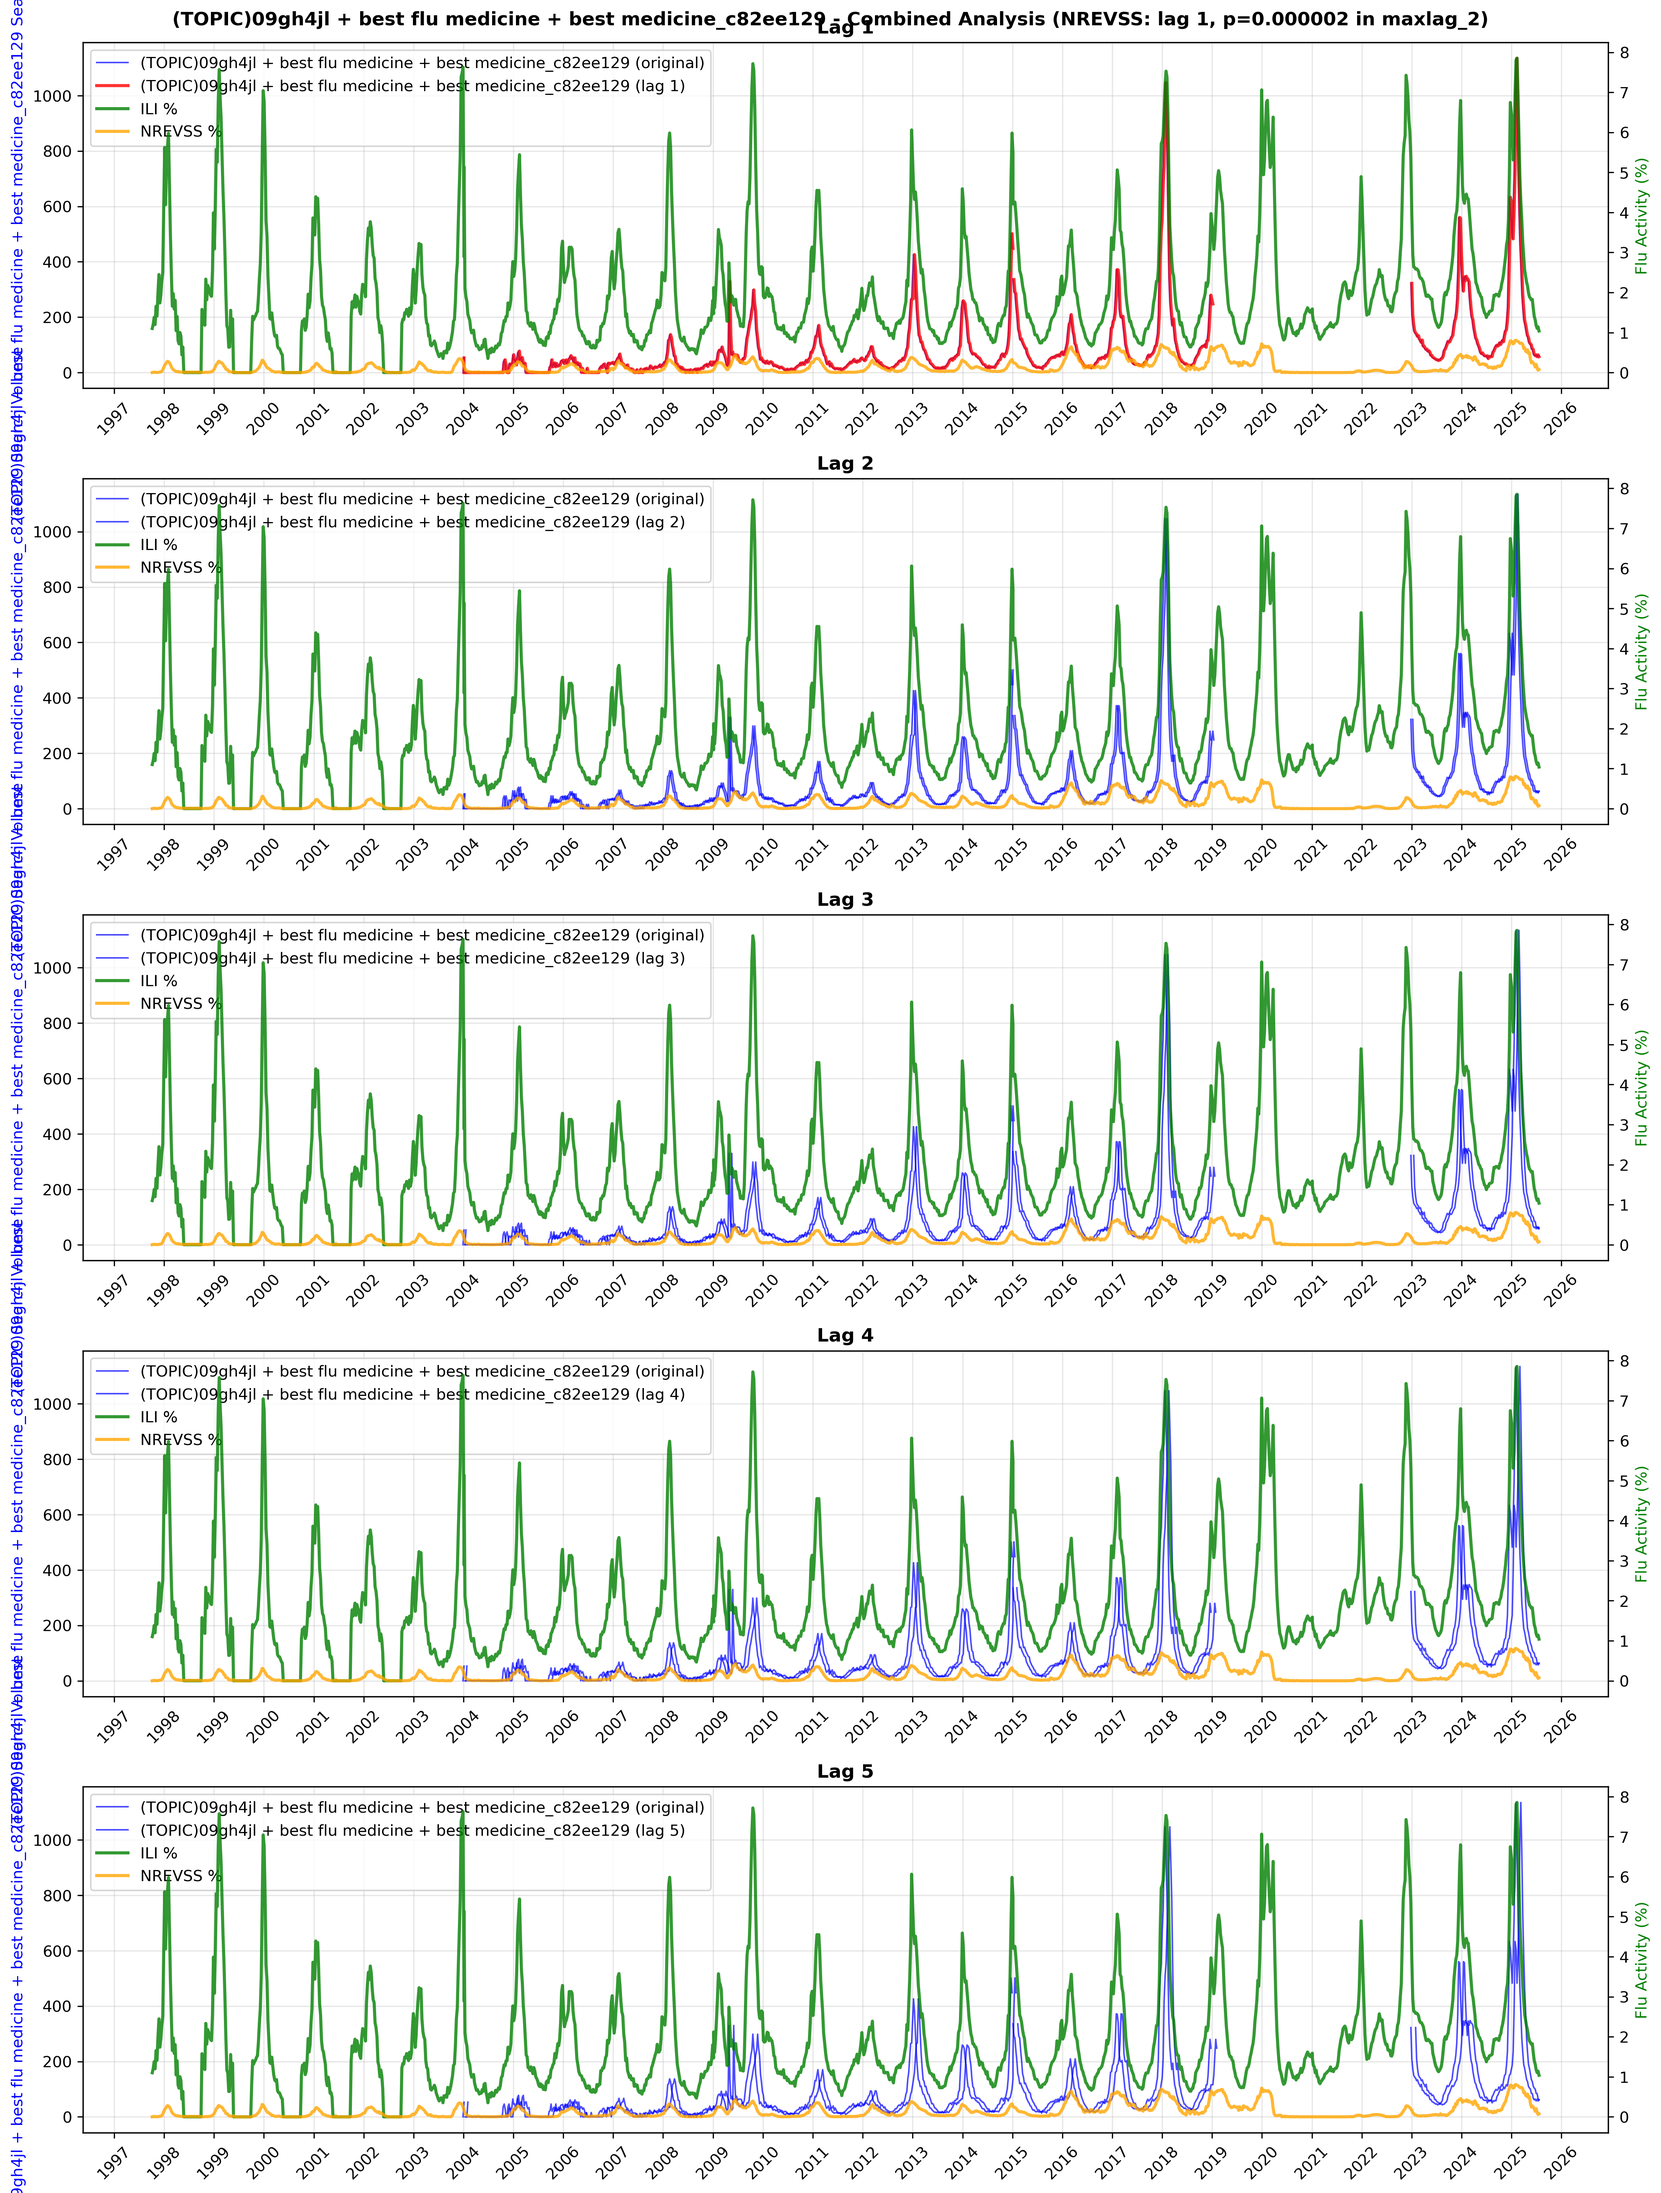
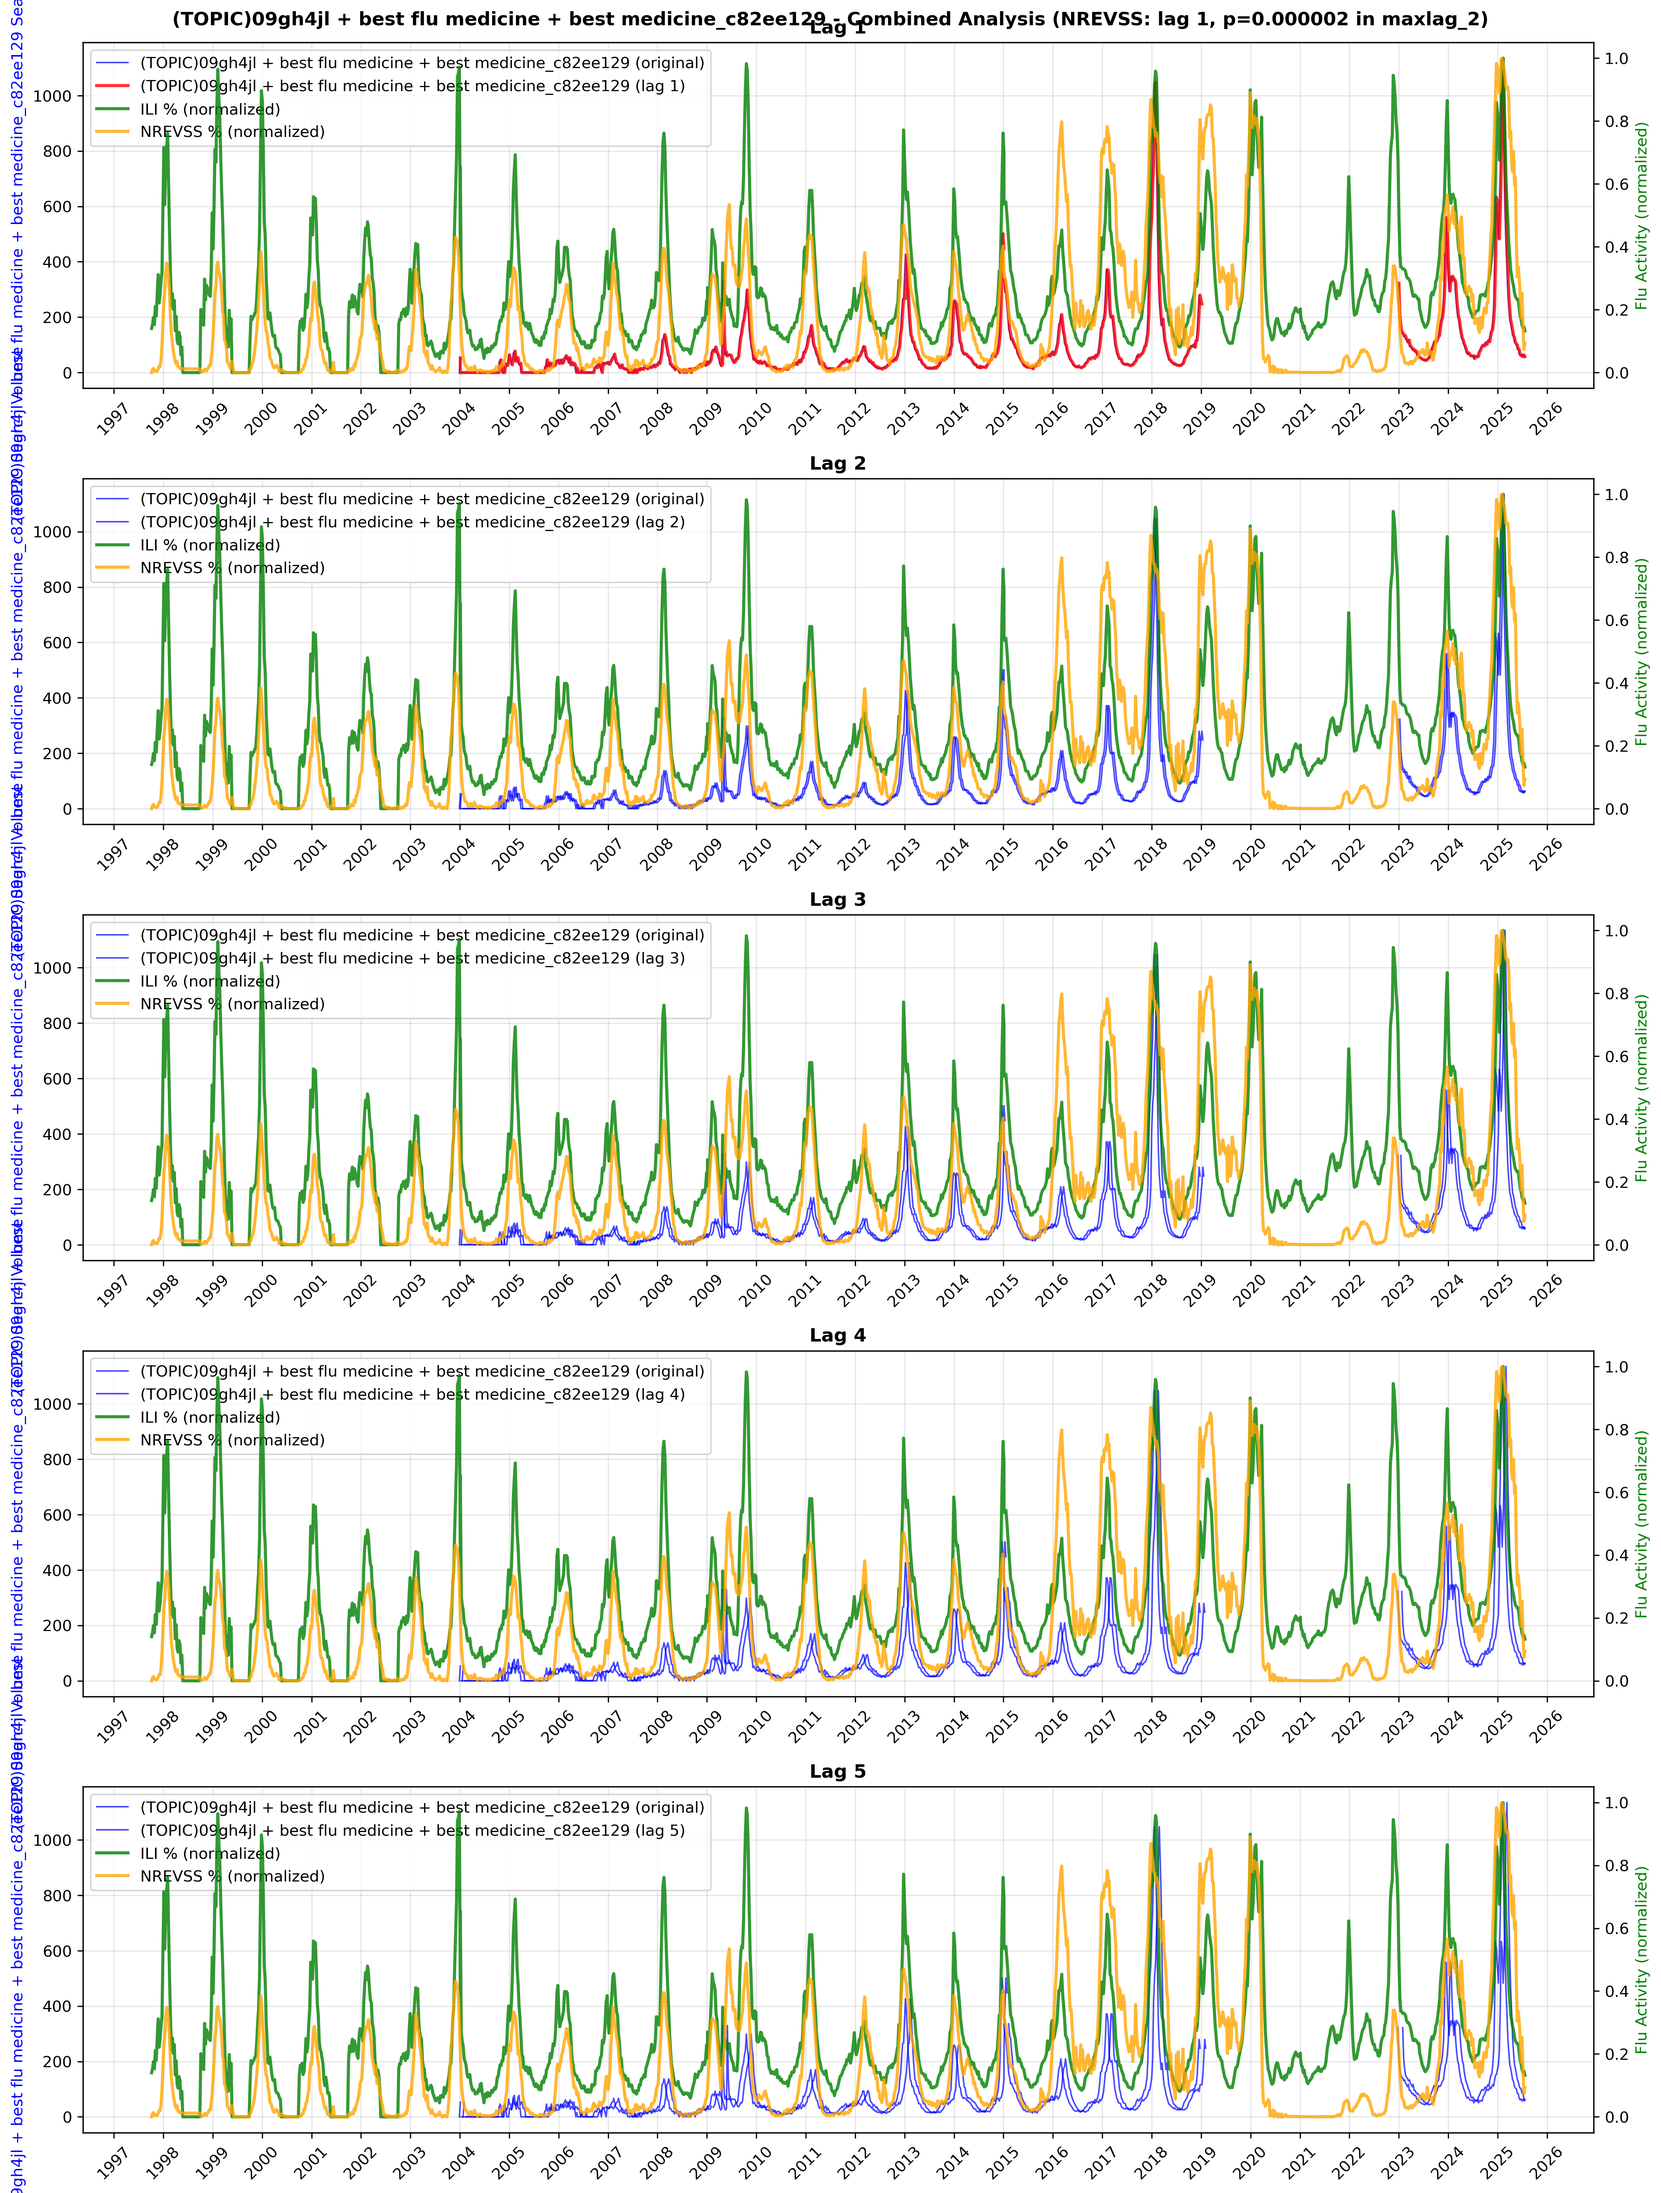
a

diff --git a/Code/new/time_series_analysis_specific.py b/Code/new/time_series_analysis_specific.py
@@ -132,6 +132,11 @@ def create_nrevss_plot(term, df_nrevss, significant_lags, term_significant, term
     else:
         fig.suptitle(f'{term} - NREVSS Analysis', fontsize=14, fontweight='bold', y=0.98)
     
+    # Normalize NREVSS data
+    nrevss_min = df_nrevss['flu_pct_positive'].min()
+    nrevss_max = df_nrevss['flu_pct_positive'].max()
+    df_nrevss['flu_pct_positive_normalized'] = (df_nrevss['flu_pct_positive'] - nrevss_min) / (nrevss_max - nrevss_min)
+    
     for lag in range(1, 6):
         ax = axes[lag-1]
         
@@ -150,14 +155,14 @@ def create_nrevss_plot(term, df_nrevss, significant_lags, term_significant, term
         else:
             ax.plot(x, df_nrevss[f'{term}_lag{lag}'], label=f'{term} (lag {lag})', color='blue', alpha=0.7, linewidth=1)
         
-        # Plot NREVSS data - right y-axis
+        # Plot normalized NREVSS data - right y-axis
         ax2 = ax.twinx()
-        ax2.plot(x, df_nrevss['flu_pct_positive'], label='NREVSS % Positive', color='orange', alpha=0.8, linewidth=2)
+        ax2.plot(x, df_nrevss['flu_pct_positive_normalized'], label='NREVSS % Positive (normalized)', color='orange', alpha=0.8, linewidth=2)
         
         # Customize plot
         ax.set_title(f'Lag {lag}', fontweight='bold')
         ax.set_ylabel(f'{term} Search Volume', color='blue')
-        ax2.set_ylabel('NREVSS Activity (%)', color='orange')
+        ax2.set_ylabel('NREVSS Activity (normalized)', color='orange')
         ax.grid(True, alpha=0.3)
         
         # Add legends
@@ -205,6 +210,15 @@ def create_combined_plot(term, df_ili, df_nrevss, term_significant, term_dir):
     ili_significant_lags = [s['lag'] for s in term_significant if s['test_type'] == 'ili']
     nrevss_significant_lags = [s['lag'] for s in term_significant if s['test_type'] == 'nrevss']
     
+    # Normalize both ILI and NREVSS data for combined plot
+    ili_min = df_ili['% WEIGHTED ILI'].min()
+    ili_max = df_ili['% WEIGHTED ILI'].max()
+    df_ili['% WEIGHTED ILI_normalized'] = (df_ili['% WEIGHTED ILI'] - ili_min) / (ili_max - ili_min)
+    
+    nrevss_min = df_nrevss['flu_pct_positive'].min()
+    nrevss_max = df_nrevss['flu_pct_positive'].max()
+    df_nrevss['flu_pct_positive_normalized'] = (df_nrevss['flu_pct_positive'] - nrevss_min) / (nrevss_max - nrevss_min)
+    
     for lag in range(1, 6):
         ax = axes[lag-1]
         
@@ -225,22 +239,22 @@ def create_combined_plot(term, df_ili, df_nrevss, term_significant, term_dir):
         else:
             ax.plot(x, df_ili[f'{term}_lag{lag}'], label=f'{term} (lag {lag})', color='blue', alpha=0.7, linewidth=1)
         
-        # Plot both flu datasets - right y-axis
+        # Plot both normalized flu datasets - right y-axis
         ax2 = ax.twinx()
         
-        # Plot ILI data
-        ax2.plot(x, df_ili['% WEIGHTED ILI'], label='ILI %', color='green', alpha=0.8, linewidth=2)
+        # Plot normalized ILI data
+        ax2.plot(x, df_ili['% WEIGHTED ILI_normalized'], label='ILI % (normalized)', color='green', alpha=0.8, linewidth=2)
         
-        # Plot NREVSS data (align dates)
+        # Plot normalized NREVSS data (align dates)
         # Handle duplicate dates by taking the mean
-        nrevss_data = df_nrevss.groupby('date')['flu_pct_positive'].mean()
+        nrevss_data = df_nrevss.groupby('date')['flu_pct_positive_normalized'].mean()
         nrevss_aligned = nrevss_data.reindex(x).ffill()
-        ax2.plot(x, nrevss_aligned, label='NREVSS %', color='orange', alpha=0.8, linewidth=2)
+        ax2.plot(x, nrevss_aligned, label='NREVSS % (normalized)', color='orange', alpha=0.8, linewidth=2)
         
         # Customize plot
         ax.set_title(f'Lag {lag}', fontweight='bold')
         ax.set_ylabel(f'{term} Search Volume', color='blue')
-        ax2.set_ylabel('Flu Activity (%)', color='green')
+        ax2.set_ylabel('Flu Activity (normalized)', color='green')
         ax.grid(True, alpha=0.3)
         
         # Add legends
